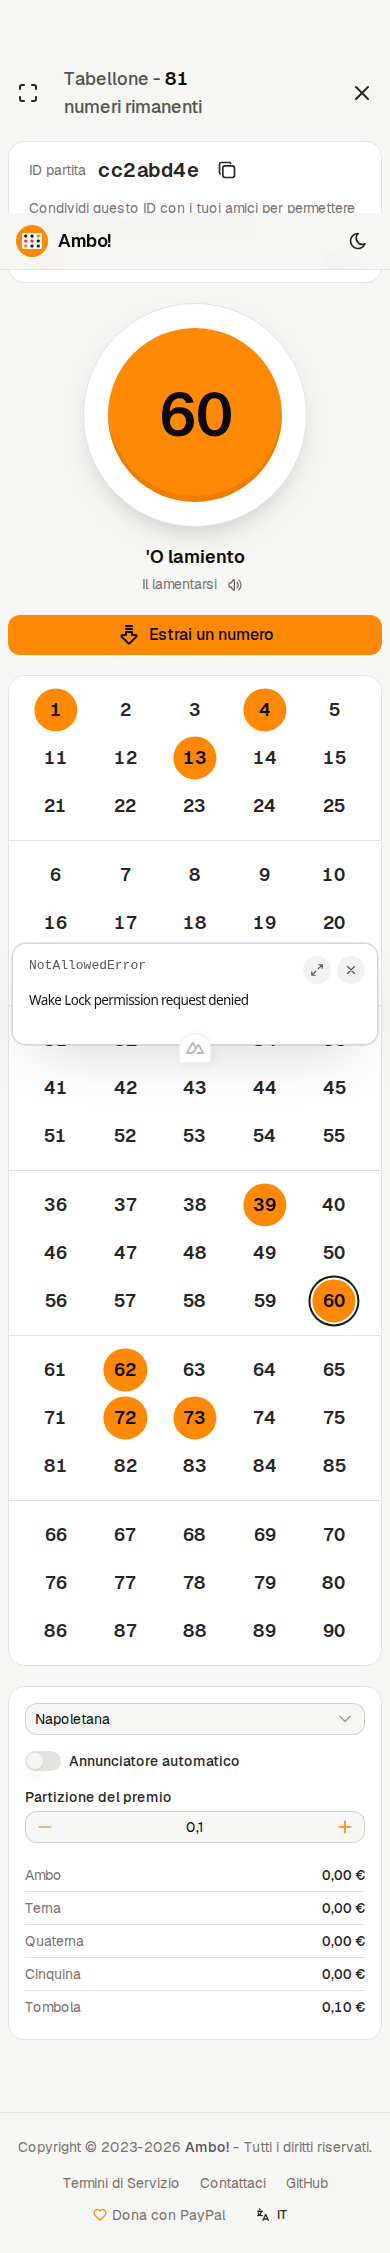
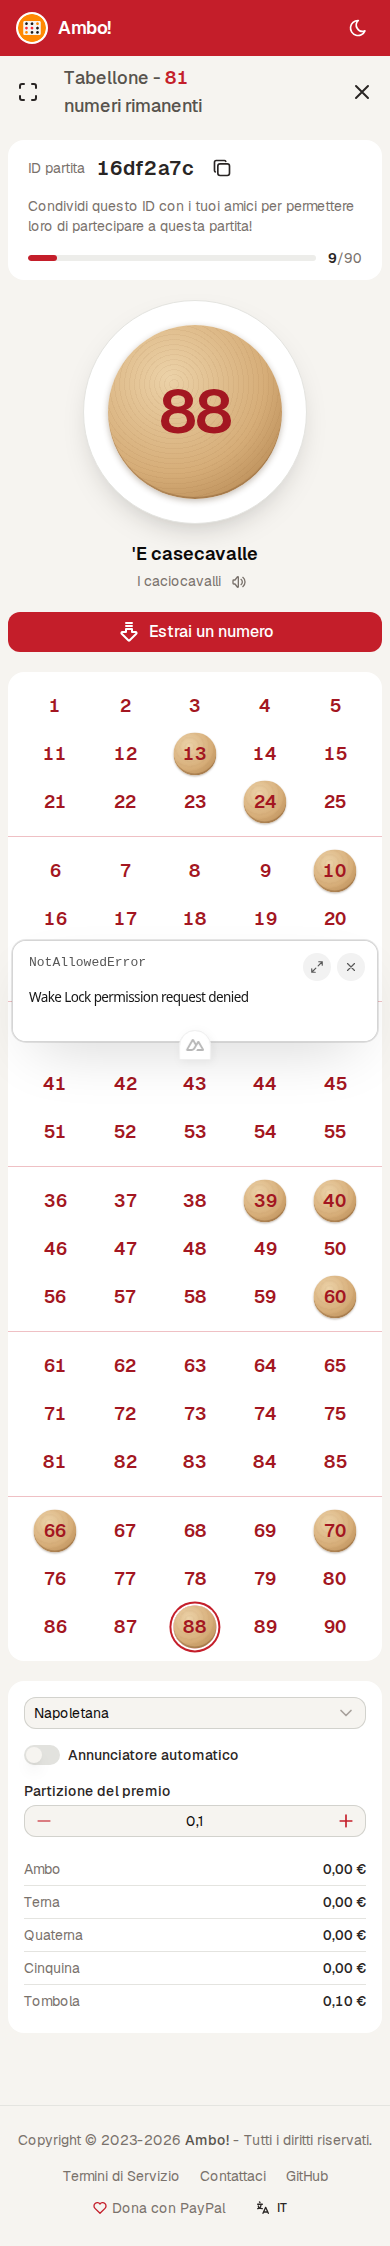
feat: tombola red and wooden tokens

diff --git a/app/assets/main.css b/app/assets/main.css
@@ -13,11 +13,27 @@
 
   --breakpoint-3xl: 120rem;
 
-  --color-arancio: #ff8904;
+  /* Tombola red: the ink printed on paper cartelle */
+  --color-tombola-50: #fdf3f3;
+  --color-tombola-100: #fbe4e4;
+  --color-tombola-200: #f7c8c9;
+  --color-tombola-300: #f0a0a3;
+  --color-tombola-400: #e4676d;
+  --color-tombola-500: #d63a42;
+  --color-tombola-600: #c41e2a;
+  --color-tombola-700: #a31621;
+  --color-tombola-800: #84151e;
+  --color-tombola-900: #6e161d;
+  --color-tombola-950: #3d070b;
+
+  /* Beech wood of the numeretti */
+  --color-legno-light: #ecd2a8;
+  --color-legno: #d6ad78;
+  --color-legno-dark: #a97a45;
 }
 
 :root {
-  --ui-primary: var(--ui-color-primary-400);
+  --ui-primary: var(--ui-color-primary-600);
 
   --ui-text-dimmed: var(--ui-color-neutral-400);
   --ui-text-muted: var(--ui-color-neutral-500);
@@ -26,7 +42,7 @@
   --ui-text-highlighted: var(--ui-color-neutral-950);
   --ui-text-inverted: var(--ui-color-neutral-50);
 
-  --ui-bg: #f6f6f4;
+  --ui-bg: #f6f4f0;
   --ui-bg-elevated: #ffffff;
   --ui-bg-muted: #ededea;
   --ui-bg-accented: #e2e2de;
@@ -39,13 +55,15 @@
 
   --ui-radius: 0.5rem;
 
-  /* The hatch that fills a cartella's empty cells */
-  --hatch: rgb(28 25 23 / 0.07);
-  --ring-latest: var(--ui-color-neutral-900);
+  /* Printed red of the cartella: numerals, grid lines, the hatch in empty cells */
+  --print: var(--ui-color-primary-700);
+  --print-line: rgb(196 30 42 / 0.28);
+  --hatch: rgb(196 30 42 / 0.1);
+  --ring-latest: var(--ui-color-primary-600);
 }
 
 .dark {
-  --ui-primary: var(--ui-color-primary-400);
+  --ui-primary: var(--ui-color-primary-600);
 
   --ui-text-dimmed: var(--ui-color-neutral-500);
   --ui-text-muted: var(--ui-color-neutral-400);
@@ -65,15 +83,19 @@
   --ui-border-muted: #232321;
   --ui-border-inverted: var(--ui-color-neutral-50);
 
-  --hatch: rgb(255 255 255 / 0.06);
-  --ring-latest: #ffffff;
+  --print: var(--ui-color-primary-300);
+  --print-line: rgb(228 103 109 / 0.3);
+  --hatch: rgb(228 103 109 / 0.1);
+  --ring-latest: var(--ui-color-primary-400);
 }
 
 /* A plain elevated surface with a hairline */
-.panel {
-  background: var(--ui-bg-elevated);
-  border: 1px solid var(--ui-border);
-  border-radius: 1rem;
+@layer components {
+  .panel {
+    background: var(--ui-bg-elevated);
+    border: 1px solid var(--ui-border);
+    border-radius: 1rem;
+  }
 }
 
 /* Empty cartella cell: a faint diagonal hatch, like the printed blanks of a paper card */
@@ -81,8 +103,22 @@
   background-image: repeating-linear-gradient(135deg, var(--hatch) 0 1px, transparent 1px 7px);
 }
 
+/* Red print on a cartella or the tabellone */
+.print {
+  color: var(--print);
+  border-color: var(--print-line);
+}
+
+/* A turned beech token seen from the top: soft light, faint growth rings, darker edge */
+.legno {
+  background:
+    repeating-radial-gradient(circle at 38% 34%, transparent 0 4px, rgb(120 72 30 / 0.06) 4px 5px),
+    radial-gradient(circle at 35% 30%, var(--color-legno-light), var(--color-legno) 58%, var(--color-legno-dark));
+  box-shadow: inset 0 -2px 0 rgb(90 52 20 / 0.25), 0 2px 6px rgb(60 35 10 / 0.3);
+}
+
 /* Number states, shared by tabellone and cartelle:
-   waiting = plain, drawn/marked = orange token, latest = token plus a ring */
+   waiting = red print, drawn/marked = a wooden token with a red numeral, latest = token plus a red ring */
 .numero {
   position: relative;
   display: grid;
@@ -103,7 +139,10 @@
   aspect-ratio: 1;
   translate: -50% -50%;
   border-radius: 9999px;
-  background: var(--color-arancio);
+  background:
+    repeating-radial-gradient(circle at 38% 34%, transparent 0 4px, rgb(120 72 30 / 0.06) 4px 5px),
+    radial-gradient(circle at 35% 30%, var(--color-legno-light), var(--color-legno) 58%, var(--color-legno-dark));
+  box-shadow: inset 0 -2px 0 rgb(90 52 20 / 0.25), 0 1px 2px rgb(60 35 10 / 0.3);
   z-index: -1;
   scale: 0;
   transition: scale 0.4s cubic-bezier(0.16, 1, 0.3, 1);
@@ -116,11 +155,11 @@
 
 .numero[data-state="on"],
 .numero[data-state="latest"] {
-  color: var(--ui-color-neutral-950);
+  color: var(--color-tombola-700);
 }
 
 .numero[data-state="latest"]::before {
-  box-shadow: 0 0 0 2px var(--ui-bg-elevated), 0 0 0 4px var(--ring-latest);
+  box-shadow: inset 0 -2px 0 rgb(90 52 20 / 0.25), 0 0 0 2px var(--ui-bg-elevated), 0 0 0 4px var(--ring-latest);
 }
 
 @media (prefers-reduced-motion: reduce) {
@@ -139,12 +178,12 @@
 }
 
 ::-webkit-scrollbar-thumb {
-  @apply bg-accented rounded-md;
+  @apply bg-primary rounded-md;
 }
 
 ::selection {
-  color: var(--ui-color-neutral-950);
-  background: var(--color-arancio);
+  color: #ffffff;
+  background: var(--ui-color-primary-600);
 }
 
 :focus-visible {

diff --git a/app/pages/cards.vue b/app/pages/cards.vue
@@ -133,16 +133,16 @@ function checkNumber(num: number, check = true) {
     </div>
 
     <div class="grid w-full justify-items-center gap-5 lg:grid-cols-2">
-      <div v-for="(card, ci) in cards" :key="ci" class="panel w-full max-w-xl overflow-hidden">
-        <div class="flex items-center justify-between border-b border-default px-4 py-2 text-xs text-muted">
+      <div v-for="(card, ci) in cards" :key="ci" class="panel w-full max-w-xl overflow-hidden border-[var(--print-line)]">
+        <div class="flex items-center justify-between bg-primary px-4 py-2 text-xs text-white">
           <span class="font-medium tabular-nums">#{{ ci + 1 }}</span>
-          <span class="tabular-nums">{{ signedNumbers[ci]?.length ?? 0 }}/15</span>
+          <span class="tabular-nums text-white/80">{{ signedNumbers[ci]?.length ?? 0 }}/15</span>
         </div>
         <div class="grid select-none grid-cols-9">
           <button v-for="(number, ni) in card" :key="`${ci}-${ni}`" type="button"
-                  class="numero aspect-square border-default text-lg sm:text-xl"
+                  class="numero print aspect-square text-lg sm:text-xl"
                   :class="[
-                    number === 0 ? 'blank' : 'cursor-pointer hover:bg-muted',
+                    number === 0 ? 'blank' : 'cursor-pointer hover:bg-primary/5',
                     ni % 9 !== 8 && 'border-e',
                     ni < 18 && 'border-b',
                   ]"

diff --git a/app/pages/board.vue b/app/pages/board.vue
@@ -189,10 +189,10 @@ async function extractNumber() {
                   :label="$t('board.draw')" @click="extractNumber" />
       </div>
 
-      <div class="panel grid select-none sm:grid-cols-2 lg:row-span-2 xl:row-span-1">
-        <div v-for="(card, index) in cards" :key="index" class="grid grid-cols-5 gap-y-1 p-3 sm:p-4 border-default"
+      <div class="panel grid select-none border-[var(--print-line)] sm:grid-cols-2 lg:row-span-2 xl:row-span-1">
+        <div v-for="(card, index) in cards" :key="index" class="print grid grid-cols-5 gap-y-1 p-3 sm:p-4"
              :class="[index % 2 === 0 && 'sm:border-e', index < 5 && 'border-b', index >= 4 && 'sm:border-b-0']">
-          <span v-for="number in card" :key="number" class="numero h-11 text-lg sm:text-xl"
+          <span v-for="number in card" :key="number" class="numero print h-11 text-lg sm:text-xl"
                 :data-state="number === currentNumber ? 'latest' : (extractedNumbers.includes(number) ? 'on' : undefined)">
             {{ number }}
           </span>

diff --git a/app/components/NavHeader.vue b/app/components/NavHeader.vue
@@ -3,10 +3,10 @@ const { title } = useAppConfig()
 </script>
 
 <template>
-  <header class="border-b border-default bg-default">
+  <header class="bg-primary text-white">
     <div class="mx-auto flex max-w-7xl items-center justify-between gap-4 px-4 py-3">
-      <NuLink :to="$localePath('index')" class="flex items-center gap-2.5 text-highlighted hover:text-highlighted">
-        <img alt="" src="/logo.svg" class="size-8">
+      <NuLink :to="$localePath('index')" class="flex items-center gap-2.5 text-white hover:text-white">
+        <img alt="" src="/logo.svg" class="size-8 rounded-full bg-white p-0.5">
         <span class="text-lg font-semibold tracking-tight">{{ title }}</span>
       </NuLink>
       <ThemeSwitch />

diff --git a/app/components/DrawToken.vue b/app/components/DrawToken.vue
@@ -8,7 +8,7 @@ defineProps<{
   <div class="relative grid aspect-square w-full max-w-56 place-content-center rounded-full border border-default bg-elevated shadow-[0_12px_32px_-16px_rgb(28_25_23/0.35)]">
     <Transition name="token" mode="out-in">
       <div v-if="number" :key="number"
-           class="absolute inset-[11%] grid place-content-center rounded-full bg-primary text-neutral-950 shadow-[inset_0_-6px_0_rgb(0_0_0/0.08)]">
+           class="legno absolute inset-[11%] grid place-content-center rounded-full text-tombola-700">
         <span class="text-6xl font-semibold tabular-nums tracking-tight sm:text-7xl">{{ number }}</span>
       </div>
       <span v-else class="text-2xl text-dimmed">–</span>

diff --git a/app/pages/index.vue b/app/pages/index.vue
@@ -33,8 +33,8 @@ const sample = [4, 0, 21, 0, 43, 0, 62, 0, 85]
       </p>
     </div>
 
-    <div class="panel grid w-full max-w-md grid-cols-9 overflow-hidden" aria-hidden="true">
-      <span v-for="(n, i) in sample" :key="i" class="numero aspect-square border-default text-base sm:text-lg"
+    <div class="panel grid w-full max-w-md grid-cols-9 overflow-hidden border-[var(--print-line)]" aria-hidden="true">
+      <span v-for="(n, i) in sample" :key="i" class="numero print aspect-square text-base sm:text-lg"
             :class="[!n && 'blank', i < 8 && 'border-e']"
             :data-state="n === 43 ? 'on' : undefined">
         {{ n || '' }}

diff --git a/app/components/ThemeSwitch.vue b/app/components/ThemeSwitch.vue
@@ -45,7 +45,7 @@ function startViewTransition(event: MouseEvent) {
 
 <template>
   <ClientOnly>
-    <NuButton variant="ghost" color="neutral" square @click="startViewTransition">
+    <NuButton variant="ghost" color="neutral" square class="text-white hover:bg-white/15 hover:text-white" @click="startViewTransition">
       <NuIcon name="i-tabler-moon" class="size-5 rotate-0 scale-100 transition-all dark:-rotate-90 dark:scale-0" />
       <NuIcon name="i-tabler-sun" class="absolute size-5 rotate-90 scale-0 transition-all dark:rotate-0 dark:scale-100" />
       <span class="sr-only">{{ $t('theme.toggle') }}</span>

diff --git a/app/app.config.ts b/app/app.config.ts
@@ -3,7 +3,7 @@ export default defineAppConfig({
   // https://ui3.nuxt.dev/getting-started/theme#design-system
   ui: {
     colors: {
-      primary: 'orange',
+      primary: 'tombola',
       neutral: 'stone',
     },
     icons: {
@@ -31,8 +31,7 @@ export default defineAppConfig({
       compoundVariants: [{
         color: 'primary',
         variant: 'solid',
-        // Dark text on orange: white on orange fails contrast
-        class: 'text-neutral-950 hover:bg-primary-500',
+        class: 'text-white hover:bg-primary-700',
       }],
     },
     card: {

diff --git a/app/components/GameHeader.vue b/app/components/GameHeader.vue
@@ -38,7 +38,7 @@ useEventListener('beforeunload', (event) => {
       <slot name="title">
         <span>{{ $t(`header.${String($route.name)}`) }}</span>
       </slot>
-      <strong class="font-semibold text-highlighted tabular-nums">{{ remaining }}</strong>
+      <strong class="font-semibold text-primary tabular-nums">{{ remaining }}</strong>
     </i18n-t>
     <NuModal v-model:open="isModalOpen" :close="false"
              :title="$t('exit.title')" :description="$t('exit.description')" :ui="{

diff --git a/nuxt.config.ts b/nuxt.config.ts
@@ -162,7 +162,7 @@ export default defineNuxtConfig({
       name: 'Ambo! - Gioco della tombola',
       short_name: 'Ambo!',
       description: 'Gioco della tombola digitale, per quando non hai voglia di portarti la scatola!',
-      theme_color: '#ff8904',
+      theme_color: '#c41e2a',
       icons: [
         {
           src: 'pwa-192x192.png',

diff --git a/.impeccable/surfaces/app-pages-board-vue.md b/.impeccable/surfaces/app-pages-board-vue.md
@@ -13,11 +13,11 @@ Whole app (home, board, cards, info, error). Mode: Operate (host runs the board 
 
 THESIS: A calm, contemporary tombola app: the game's own objects (the 3x9 cartella grid, the round number token) are the only theme; everything else is quiet product UI. Refuses both the folk-ornament costume (carretto round, rejected by the user as dated) and a generic bingo app.
 
-OWN-WORLD: Neutral warm-grey ground (#f6f6f4 light, #0f0f0e dark), white or near-black elevated panels with 1px hairlines and 16px radius, one accent: brand orange #ff8904 only for drawn/marked numbers, progress and the primary action. Geist for everything, semibold tabular numerals. Empty cartella cells carry a faint diagonal hatch.
+OWN-WORLD: Neutral warm-grey ground (#f6f6f4 light, #0f0f0e dark), white or near-black elevated panels with 1px hairlines and 16px radius, tombola red #c41e2a as the brand: red header bar, primary buttons, progress, and the red print of cartelle and tabellone (numerals and grid lines); drawn/marked numbers are turned beech-wood tokens with red numerals. Geist for everything, semibold tabular numerals. Empty cartella cells carry a faint red diagonal hatch.
 
 STORY: The host reads the drawn number and its smorfia line from across the room, sees progress and prize split; players mark their cartelle and see the last five draws.
 
-FIRST VIEWPORT: Board: slim header; game-ID strip with copy/share and a thin 9/90 progress bar; left the large orange draw token, smorfia line, Estrai button; centre the tabellone as one panel split into six blocks by hairlines; right the smorfia select, announcer switch and prize split. Signature: the drawn token rolls in (quarter turn, settle); reduced motion fades.
+FIRST VIEWPORT: Board: slim header; game-ID strip with copy/share and a thin 9/90 progress bar; left the large wooden draw token, smorfia line, Estrai button; centre the tabellone as one panel split into six blocks by hairlines; right the smorfia select, announcer switch and prize split. Signature: the drawn token rolls in (quarter turn, settle); reduced motion fades.
 
 FORM: user-steered after rejection of the pinned carretto direction ("tombola feel, but not that much… minimalistic, something actual"); seed: d08dc0a2ad92fb9a
 

diff --git a/PRODUCT.md b/PRODUCT.md
@@ -36,6 +36,7 @@ Tombola, tabellone (board), cartella/cartelle (cards), ambo, terna, quaterna, ci
 
 ## Brand commitments
 
-- Orange is the brand color (PWA theme color `#ff8904`).
+- Tombola red is the brand color (PWA theme color `#c41e2a`), with beech-wood tokens as markers; the user moved it from orange (2026-10-22). The logo asset is still orange.
+- Style: minimal and contemporary, with tombola cues carried by red print and wooden tokens; heavy folk ornament was rejected.
 - Keep the light/dark toggle.
 - A donation link (PayPal) exists today; placement may change.
